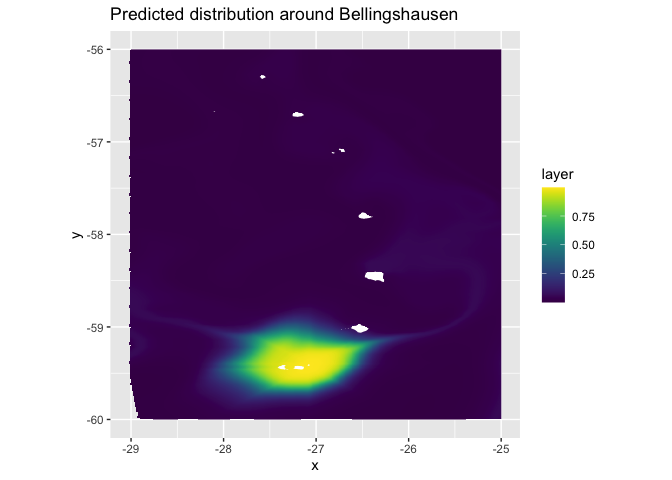
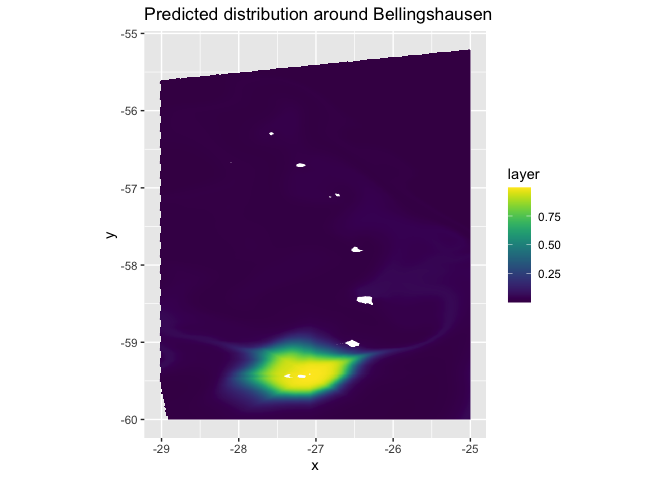
Plotting with ggplot, added p of occurrence plot across all islands, but it needs fixing

diff --git a/6_Predictions.md b/6_Predictions.md
@@ -31,7 +31,7 @@ Seamask<-readOGR("Seamask.shp")
     ## It has 1 fields
 
 ``` r
-SSI_polygons <- crop(Seamask, c(450000, 1095192, -795043.9, -100000)) %>% 
+SSI_polygons <- crop(Seamask, c(450000, 1095192, -695043.9, -100000)) %>% 
   spTransform(., crs("+init=epsg:4326"))
 ```
 
@@ -69,13 +69,14 @@ SSI_polygons.df %>%
 ## 1\. Predict around Saunders to check that the distribution looks ok
 
 This just creates a raster across the study area using the bathymetry
-raster cropped to the right extent.
+raster cropped to the right
+extent.
 
 ``` r
-# Read in bathymetry raster and crop to extent of the study area
+# Read in bathymetry raster and crop to extent of the study area around Saunders
 SSI_bath_WGS84 <- raster("ssi_geotif/full_ssi18a.tif") %>% 
   projectRaster(., crs=crs("+init=epsg:4326")) %>% 
-  crop(., c(-27.96598, -24.623, -58.41806, -57.28708))
+  crop(., c(-27.96598, -24.623, -58.41806, -57))
 
 x <- SSI_bath_WGS84
 
@@ -85,17 +86,17 @@ extent(y)
 ```
 
     ## class      : Extent 
-    ## xmin       : -119511.7 
-    ## xmax       : 83876.27 
-    ## ymin       : -49280.75 
-    ## ymax       : 80319.25
+    ## xmin       : -120437.4 
+    ## xmax       : 84582.62 
+    ## ymin       : -49208.78 
+    ## ymax       : 112391.2
 
 Crop out land from the bathymetry raster using `mask()`
 
 ``` r
 # Read in shapefile for land
 SSI_WGS84 <- readOGR("Seamask.shp") %>% 
-  crop(., c(450000, 1095192, -795043.9, -100000)) %>% 
+  crop(., c(450000, 1095192, -695043.9, -100000)) %>% 
   spTransform(., crs("+init=epsg:4326"))
 ```
 
@@ -115,6 +116,7 @@ SSI_WGS84 <- readOGR("Seamask.shp") %>%
 ``` r
 # Cut out land
 mask <- mask(x, SSI_WGS84, inverse=F)
+
 
 # Plot to check
 # plot(mask, col=viridis(100))
@@ -217,7 +219,7 @@ cropping it to the study area extent
 ``` r
 long <- seq(-119511.7 , 83876.27, 1000) #first minimum longitude in m, then max, 1000 is 1km
 # head(long)
-lat <- seq(-49280.75, 80319.25, 1000)
+lat <- seq(-49280.75, 112391.2 , 1000)
 # head(lat)
 Saunders_1KmPoints <- expand.grid(long,lat)
 names(Saunders_1KmPoints) <- c("Lon","Lat")
@@ -247,7 +249,9 @@ plotting.
 
 ``` r
 # new raster in LAEA
-r <- raster(ncols = 204, nrows = 130, crs = CRS("+proj=laea +lon_0=-26 +lat_0=-58 +units=m")) 
+r <- raster(ncols = (max(lat) - min(lat)) / 1000, 
+            nrows = (max(long) - min(long)) / 1000, 
+            crs = CRS("+proj=laea +lon_0=-26 +lat_0=-58 +units=m")) 
 # define the extent of the raster
 extent(r) <- c(-119511.7 , 83876.27, -49280.75, 80319.25  )
 # change points into LAEA as well
@@ -319,7 +323,7 @@ starting point.
 ``` r
 SSI_bath_WGS84 <- raster("ssi_geotif/full_ssi18a.tif") %>% 
   projectRaster(., crs=crs("+init=epsg:4326")) %>% 
-  crop(., c(-30, -25, -60, -56))
+  crop(., c(-30, -25, -60, -55))
 
 # Read in shapefile for land
 SSI_WGS84 <- readOGR("Seamask.shp") %>% 
@@ -386,18 +390,18 @@ projectRaster(wMeanSST_resampled, crs = CRS("+proj=laea +lon_0=-26 +lat_0=-58 +u
 ```
 
     ## class      : RasterLayer 
-    ## dimensions : 2270, 1546, 3509420  (nrow, ncol, ncell)
-    ## resolution : 203, 200  (x, y)
-    ## extent     : -250405.5, 63432.49, -230376.3, 223623.7  (xmin, xmax, ymin, ymax)
+    ## dimensions : 2827, 1563, 4418601  (nrow, ncol, ncell)
+    ## resolution : 206, 200  (x, y)
+    ## extent     : -256872, 65105.97, -230376.5, 335023.5  (xmin, xmax, ymin, ymax)
     ## crs        : +proj=laea +lon_0=-26 +lat_0=-58 +units=m +ellps=WGS84 
     ## source     : memory
     ## names      : layer 
-    ## values     : 0.6994274, 2.866962  (min, max)
+    ## values     : 0.699416, 3.820712  (min, max)
 
 ``` r
-long <- seq(-250405.5 , 63432.49, 1000) #first minimum longitude in m, then max, 1000 is 1km
+long <- seq(-256872 , 65105.97, 1000) #first minimum longitude in m, then max, 1000 is 1km
 # head(long)
-lat <- seq(-230376.3, 223623.7, 1000)
+lat <- seq(-230376.3, 335023.5, 1000)
 # head(lat)
 All_1KmPoints <- expand.grid(long,lat)
 names(All_1KmPoints) <- c("Lon","Lat")
@@ -416,9 +420,11 @@ later.
 
 ``` r
 # new raster in LAEA
-r <- raster(ncols = 313, nrows = 454, crs = CRS("+proj=laea +lon_0=-26 +lat_0=-58 +units=m")) 
+r <- raster(ncols = (max(long) - min(long)) / 1000, 
+            nrows = (max(lat) - min(lat)) / 1000, 
+            crs = CRS("+proj=laea +lon_0=-26 +lat_0=-58 +units=m")) 
 # define the extent of the raster
-extent(r) <- c(-250405.5 , 63432.49, -230376.3, 223623.7  )
+extent(r) <- c(-256872 , 65105.97, -230376.3, 335023.5)
 ```
 
 ### Read in all colony locations
@@ -552,13 +558,45 @@ plot_predicted_distribution(get(paste0(colony_code, "_predicted")), "Thule")
 
 ![](6_Predictions_files/figure-gfm/unnamed-chunk-20-10.png)<!-- -->
 
+Plot all of them on one
+plot.
+
+``` r
+stack_predicted <- stack(ZAV_predicted, VIS_predicted, CAND_predicted, VIND_predicted, SAUN_predicted, MONT_predicted, BRIS_predicted, BELL_predicted, COOK_predicted, THUL_predicted)
+
+stack_predicted_sum <- calc(stack_predicted, sum)
+
+# Convert to a SpatialPointsDataFrame
+stack_predicted_sum_pts <- rasterToPoints(stack_predicted_sum, spatial = TRUE)
+# Then to a dataframe
+stack_predicted_sum_df  <- data.frame(stack_predicted_sum_pts)
+rm(stack_predicted_sum_pts)
+
+ggplot() +
+  geom_raster(data = stack_predicted_sum_df , aes(x = x, y = y, fill = layer)) + 
+  scale_fill_gradientn(colours=c("#FFFFFFFF","#003366")) +
+  geom_polygon(data = SSI_polygons.df, aes(x = long, y = lat, group = group), fill = "grey40") +
+  ggtitle(paste0("Probability of occurence around all islands")) +
+  coord_fixed(ratio = 1) +
+  xlab("Longitude") +
+  ylab("Latitude")
+```
+
+![](6_Predictions_files/figure-gfm/unnamed-chunk-21-1.png)<!-- -->
+
+This doesn’t work because the predictions around Cook, Thule, and
+Bellingshausen are summing because they’re basically on top of each
+other… I think that if I want to do it this way then I need to go back
+to the way I originally did it, where I had just a single distance
+raster for all colonies and had just one predictec output raster.
+
 ### Calculate weighted distributions for each island
 
-I want to calculate the importance of each cell by dividing its value
-(the probability of occurrence of a penguin) by the sum of the
-probability of occurences across all cells in that raster, and then
-multiply by the colony size. This will give the expected number of
-individuals that would forage in that cell.
+Calculate the importance of each cell by dividing its value (the
+probability of occurrence of a penguin) by the sum of the probability of
+occurences across all cells in that raster, and then multiply by the
+colony size. This will give the expected number of individuals that
+would forage in that cell.
 
 ``` r
 importance <- function(x) {
@@ -580,11 +618,31 @@ THUL_expected <- importance("THUL") * 100000
 stack <- stack(ZAV_expected, VIS_expected, CAND_expected, VIND_expected, SAUN_expected, MONT_expected, BRIS_expected, BELL_expected, COOK_expected, THUL_expected)
 stack_sum <- calc(stack, sum)
 
-plot(stack_sum, col=viridis(100))
+#plot(stack_sum, col=viridis(100))
 ```
 
-![](6_Predictions_files/figure-gfm/unnamed-chunk-21-1.png)<!-- -->
+What are the units for the predicted number of penguins? The raster that
+I created to convert the points into a raster has a 1 x 1 km resolution,
+so if I have converted it to WGS84 for plotting, can I still say that
+this is the predicted number of penguins per km^2?
 
-What are the units for the predicted number of penguins? I think I need
-to plot in LAEA to be able to say the plotted values predict x penguins
-per km (or whatever).
+Plot weighted distribution.
+
+``` r
+# Convert to a SpatialPointsDataFrame
+stack_sum_pts <- rasterToPoints(stack_sum, spatial = TRUE)
+# Then to a dataframe
+stack_sum_df  <- data.frame(stack_sum_pts)
+rm(stack_sum_pts)
+
+ggplot() +
+  geom_raster(data = stack_sum_df , aes(x = x, y = y, fill = layer)) + 
+  scale_fill_gradientn(colours=c("#FFFFFFFF","#660033")) +
+  geom_polygon(data = SSI_polygons.df, aes(x = long, y = lat, group = group), fill = "grey40") +
+  ggtitle(paste0("Weighted probability of occurence around all islands")) +
+  coord_fixed(ratio = 1) +
+  xlab("Longitude") +
+  ylab("Latitude")
+```
+
+![](6_Predictions_files/figure-gfm/unnamed-chunk-23-1.png)<!-- -->
